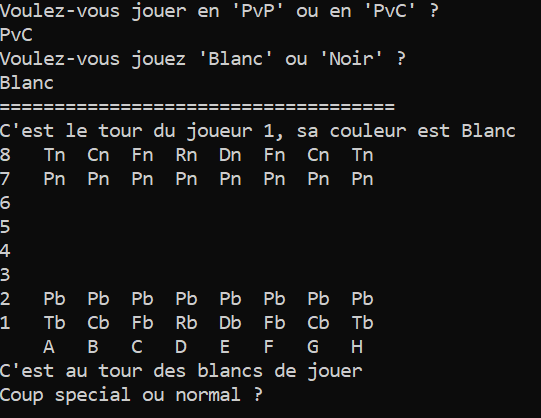
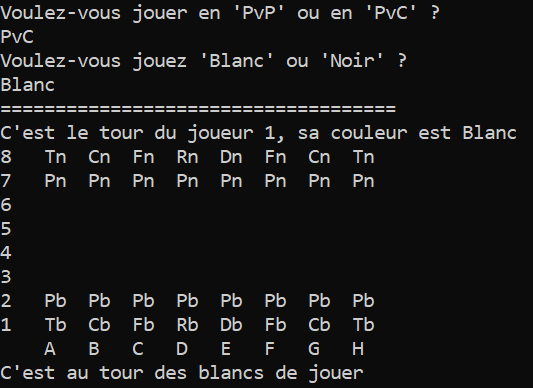
Correcting minor errors

Changed region(s): [[0.0, 0.0, 0.9606, 0.9897]]

diff --git a/Chess/main_chess.cpp b/Chess/main_chess.cpp
@@ -14,19 +14,19 @@ struct GameState{
     bool victoire_joueur = false;
 };
 
-//int main(){
-//    string type_game;
-//    cout<<"Voulez-vous jouer en 'PvP' ou en 'PvC' ?"<<endl;
-//    type_game = "PvC";
-////    cin>>type_game;
-//    while (!find_word(type_game, game))
-//    {
-//        cout<<"Choisissez entre Player vs Player 'PvP' et Player vs Computer 'PvC'?"<<endl;
-//        cin>>type_game;
-//    }
-//    if (type_game == "PvP") play_PvP();
-//    else if (type_game == "PvC") play_PvC();
-//}
+int main(){
+    string type_game;
+    cout<<"Voulez-vous jouer en 'PvP' ou en 'PvC' ?"<<endl;
+    type_game = "PvC";
+    cin>>type_game;
+    while (!find_word(type_game, game))
+    {
+        cout<<"Choisissez entre Player vs Player 'PvP' et Player vs Computer 'PvC'?"<<endl;
+        cin>>type_game;
+    }
+    if (type_game == "PvP") play_PvP();
+    else if (type_game == "PvC") play_PvC();
+}
 
 ///===================================
 ///=============Test mains============
@@ -34,44 +34,44 @@ struct GameState{
 
 
 ///To test position_possible() on three level of the tree
-int main(){
-    Echiquier echiquier_d;
-    PieceColor Color_Player = Blanc;
-    echiquier_test_prom(echiquier_d);
-    Position_Echec posi(echiquier_d, Color_Player);
-    posi.joueur = 1;
-    cout<<"Original chessboard is:"<<endl;
-    posi.print_position();
-    posi.position_possible();
-    Position_Echec* pos_poss = posi.fille;
-    int count_ = 3;
-    while (count_ != 0){
-        Position_Echec* ori = pos_poss;
-        while (pos_poss != nullptr) {
-            Position_Echec tmp(*pos_poss);
-            tmp.mise_a_jour_position(0);
-            list<Piece*> alive = (tmp.couleur_joueur == Blanc) ? tmp.echiquier_ref->aliveN : tmp.echiquier_ref->aliveB;
-            list<Piece*>::const_iterator it;
-            for (it = alive.begin(); it != alive.end(); it++)
-            {
-                cout<<(*it)->x<<" "<<(*it)->y<<" "<<(*it)->P.Nom_piece<<endl;
-            }
-
-            tmp.print_position();
-            delete tmp.echiquier_ref;
-            pos_poss = pos_poss->soeur;
-        }
-        pos_poss = ori;
-        cout<<"----------------------------------"<<endl;
-        cout<<"Daughter chessboard is:"<<endl;
-
-        pos_poss->affiche_attributs();
-        pos_poss->position_possible();
-        pos_poss = pos_poss->fille;
-        --count_;
-    }
-    return 0;
-}
+//int main(){
+//    Echiquier echiquier_d;
+//    PieceColor Color_Player = Blanc;
+//    echiquier_depart(echiquier_d);
+//    Position_Echec posi(echiquier_d, Color_Player);
+//    posi.joueur = 1;
+//    cout<<"Original chessboard is:"<<endl;
+//    posi.print_position();
+//    posi.position_possible();
+//    Position_Echec* pos_poss = posi.fille;
+//    int count_ = 10;
+//    while (count_ != 0){
+//        Position_Echec* ori = pos_poss;
+//        while (pos_poss != nullptr) {
+//            Position_Echec tmp(*pos_poss);
+//            tmp.mise_a_jour_position(0);
+//            list<Piece*> alive = (tmp.couleur_joueur == Blanc) ? tmp.echiquier_ref->aliveN : tmp.echiquier_ref->aliveB;
+//            list<Piece*>::const_iterator it;
+//            for (it = alive.begin(); it != alive.end(); it++)
+//            {
+//                cout<<(*it)->x<<" "<<(*it)->y<<" "<<(*it)->P.Nom_piece<<endl;
+//            }
+//
+//            tmp.print_position();
+//            delete tmp.echiquier_ref;
+//            pos_poss = pos_poss->soeur;
+//        }
+//        pos_poss = ori;
+//        cout<<"----------------------------------"<<endl;
+//        cout<<"Daughter chessboard is:"<<endl;
+//
+//        pos_poss->affiche_attributs();
+//        pos_poss->position_possible();
+//        pos_poss = pos_poss->fille;
+//        --count_;
+//    }
+//    return 0;
+//}
 
 ///Test for valeur_position()
 //int main(){

diff --git a/Chess/play_chess.cpp b/Chess/play_chess.cpp
@@ -26,8 +26,7 @@ void play_PvC(){
 
     string C;
     cout<<"Voulez-vous jouez 'Blanc' ou 'Noir' ?"<<endl;
-//    cin>>C;
-    C = "Blanc";
+    cin>>C;
     while (C != "Blanc" && C != "Noir")
     {
         cout<<"Choisissez entre 'Blanc' et 'Noir' svp."<<endl;
@@ -67,20 +66,20 @@ void play_PvC(){
             if (posi.fille != nullptr)
             {
                 Position_Echec* Fille = posi.fille;
-                minimaxi = minimax(*Fille, 0, 0, 10);
+                minimaxi = minimax(*Fille, 0, 0, depth);
                 mini = minimaxi;
                 Fille = Fille->soeur;
-//                while (Fille != nullptr)
-//                {
-//                    minimaxi = minimax(*Fille, 0, 0, depth);
-//                    if (minimaxi < mini) //If we find a better minimum
-//                    {
-////                       Update the min and best position.
-//                        tmp = Fille;
-//                        mini = minimaxi;
-//                    }
-//                    Fille = Fille->soeur;
-//                }
+                while (Fille != nullptr)
+                {
+                    minimaxi = minimax(*Fille, 0, 0, depth);
+                    if (minimaxi < mini) //If we find a better minimum
+                    {
+//                       Update the min and best position.
+                        tmp = Fille;
+                        mini = minimaxi;
+                    }
+                    Fille = Fille->soeur;
+                }
             }
             tmp->mise_a_jour_position(1);
             posi.fille = posi.fille->libere_soeur();//Free all the daughter positions allocated at the beginning of the instruction block, and return a null pointer

diff --git a/Chess/move_chess.cpp b/Chess/move_chess.cpp
@@ -239,11 +239,11 @@ void elimine_piece(Position_Echec& pos, Piece* Pprise, const Piece* const Pjoue,
         }
         if (Cprise == Blanc)
         {
-            cout<<" Blanc"<<endl;
+            cout<<" Blanc";
         }
         else if (Cprise == Noir)
         {
-            cout<<"Noir"<<endl;
+            cout<<"Noir";
         }
         cout<<" en " << alphat[Pprise->x]<<Pprise->y + 1<<" est elimine par ";
 
@@ -311,13 +311,6 @@ string affiche_couleur(const PieceColor C)
 int minimax(Position &P, int alpha, int beta, int depth)
 {
     int val;
-    if (P.joueur < 0)
-    {
-        cout<<""<<endl;
-        P.mise_a_jour_position(0);
-        P.print_position();
-        P.free();
-    }
     val = P.valeur_position();
     if (depth == 2)
     if (val == MAX) return MAX;
